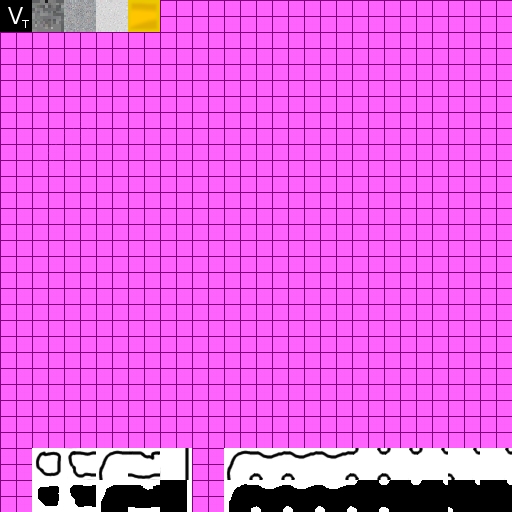
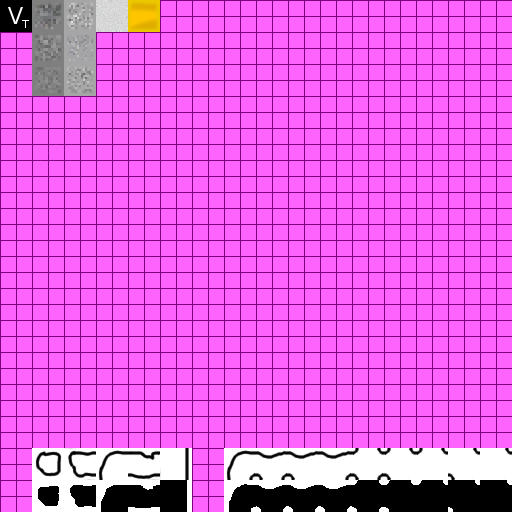
Berge ungleichmäßiger, Experimente mit dem Look

Changed region(s): [[0.0625, 0.0, 0.1875, 0.1875]]

diff --git a/src/de/_13ducks/spacebatz/util/mapgen/modules/SurfaceRandomizer.java b/src/de/_13ducks/spacebatz/util/mapgen/modules/SurfaceRandomizer.java
@@ -43,8 +43,8 @@ public class SurfaceRandomizer extends Module {
         Random random = new Random(Long.parseLong(parameters.get("SEED")));
         for (int x = 0; x < topTex.length; x++) {
             for (int y = 0; y < topTex[0].length; y++) {
-                if (topTex[x][y] == 2) {
-                    int fact = random.nextInt(5);
+                if (topTex[x][y] == 1 || topTex[x][y] == 2) {
+                    int fact = random.nextInt(3);
                     topRandom[x][y] = (byte) (fact * 16);
                 }
             }
